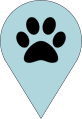
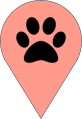
add search to maps

diff --git a/src/components/Maps.js b/src/components/Maps.js
@@ -1,11 +1,17 @@
 import React from 'react'
 import { Map, Marker, TileLayer } from 'react-leaflet'
 import { Icon } from 'leaflet'
+import ReactLeafletSearch from 'react-leaflet-search'
 import mapsData from '../maps.json'
 import styled from 'styled-components/macro'
 
 const dog = new Icon({
-  iconUrl: '/marker-maps.png',
+  iconUrl: '/maps-marker.png',
+  iconSize: [24, 35],
+})
+
+const iconSearch = new Icon({
+  iconUrl: '/maps-marker-search.png',
   iconSize: [24, 35],
 })
 
@@ -26,6 +32,13 @@ export default function Maps() {
               icon={dog}
             />
           ))}
+          <ReactLeafletSearch
+            position="topright"
+            markerIcon={iconSearch}
+            inputPlaceholder="Gib einen Ort ein"
+            zoom={12}
+            showPopup={false}
+          />
         </Map>
       </MapStyled>
     </>

diff --git a/src/components/ProfileIcon/ProfileIcon.stories.js b/src/components/ProfileIcon/ProfileIcon.stories.js
@@ -1,0 +1,11 @@
+import React from 'react'
+import ProfileIcon from './ProfileIcon'
+
+export default {
+  title: 'ProfileIcon',
+  component: ProfileIcon,
+}
+
+export const ProfileIconSimple = () => {
+  return <ProfileIcon />
+}

diff --git a/src/components/MapsIcon/MapsIcon.stories.js b/src/components/MapsIcon/MapsIcon.stories.js
@@ -1,0 +1,11 @@
+import React from 'react'
+import MapsIcon from './MapsIcon'
+
+export default {
+  title: 'MapsIcon',
+  component: MapsIcon,
+}
+
+export const MapsIconSimple = () => {
+  return <MapsIcon />
+}
